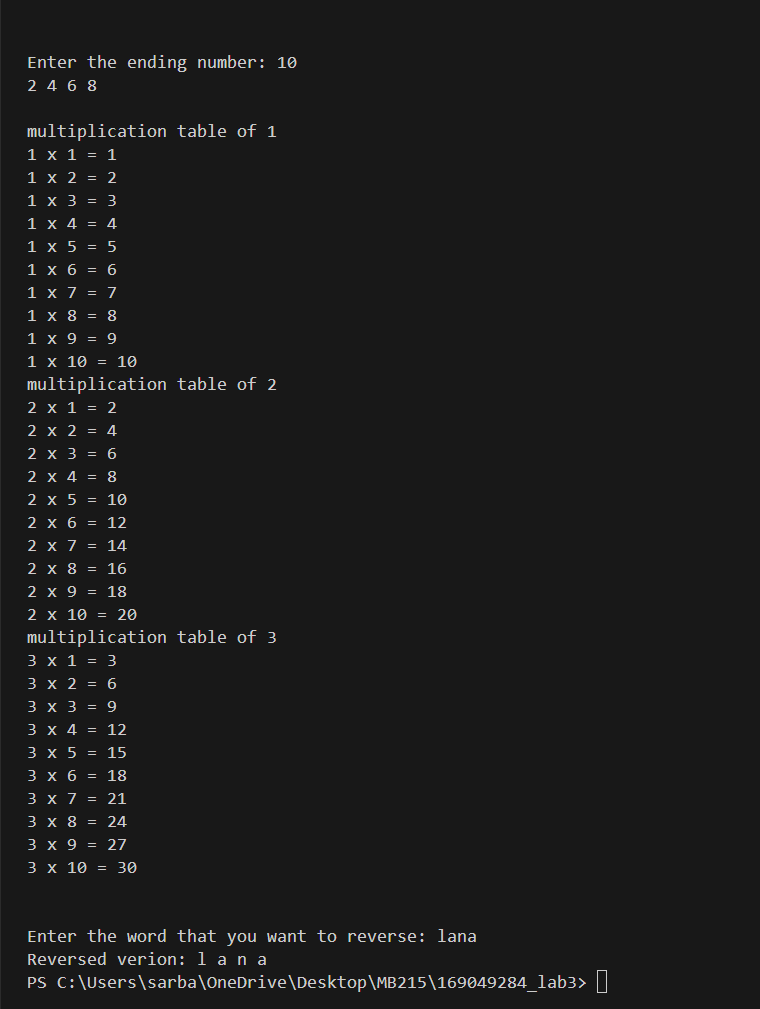
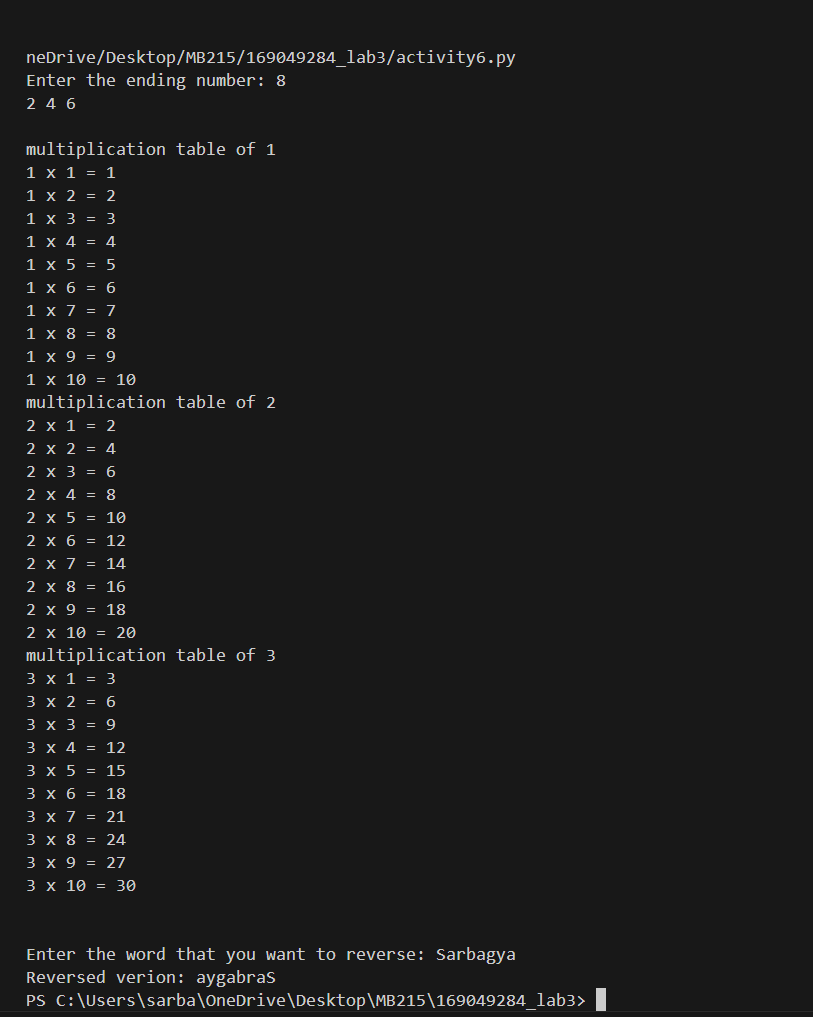
activity and ss

Changed region(s): [[0.0303, 0.0307, 0.6355, 0.891], [0.0303, 0.9217, 0.7566, 1.0]]

diff --git a/activity6.py b/activity6.py
@@ -14,7 +14,9 @@ for i in range (1,4):
 print("\n")
 
 #for reversed verion
-a = input("Enter the word that you want to reverse: ")
+string = input("Enter the word that you want to reverse: ")
+rev = " "
 print ("Reversed verion:", end=" ")
-for letter in a: #letter is the variable to store all the character that will be reversed
-    print(letter, end=" " )
+for ch in string:
+   rev= ch + rev 
+print(rev, end=" ")
